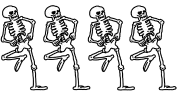
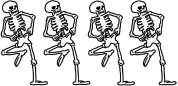
major ui and functionality updates

diff --git a/scripts/script.js b/scripts/script.js
@@ -1,50 +1,47 @@
 var midi = null;
-var isPlaying = false;
+var dancing;
 
 function flip() {
     this.isFlipped;
-    if (this.isFlipped === true) {
-        document.getElementsByTagName("img")[0].removeAttribute("style");
-        this.isFlipped = false;
-    }
-    else {
-        document.getElementsByTagName("img")[0].setAttribute("style", "transform: scaleX(-1);");
+    if (this.isFlipped === false) {
+        document.getElementsByTagName("img")[0].style.transform = "scaleX(-1)";
         this.isFlipped = true;
-    }
-}
-function trydance() {
-    if (isPlaying === false) {
         return;
     }
-    flip();
-    setTimeout(trydance, 700);
+    document.getElementsByTagName("img")[0].style.removeProperty("transform");
+    this.isFlipped = false;
+}
+function display_time(ev) {
+    document.getElementsByTagName("progress")[0].value = ev.time.toFixed(0);
 }
 document.getElementById("load").onclick = function() {
+    document.getElementById("filein").value = null;
     document.getElementById("filein").click();
 };
 document.getElementById("filein").onchange = function() {
     var reader = new FileReader();
     if (document.getElementById("filein").files[0]) {
+        clearInterval(dancing);
+        dancing = null;
         reader.readAsDataURL(document.getElementById("filein").files[0]);
         reader.onload = function(e) {
             midi = reader.result;
-            document.getElementsByTagName("small")[0].innerHTML = document.getElementById("filein").files[0].name.substring(0,35);
+            document.getElementById("control").click();
+            document.getElementById("title").innerHTML = document.getElementById("filein").files[0].name.split('.mid')[0].substring(0,35);
         };
+        document.getElementById("control").disabled = false;
     }
-    document.getElementById("play").removeAttribute("disabled");
 };
-document.getElementById("play").onclick = function() {
-    if (midi) {
+document.getElementById("control").onclick = function() {
+    if (!dancing) {
         MIDIjs.play(midi);
-        isPlaying = true;
-        setTimeout(trydance, 700);
-        document.getElementById("play").setAttribute("disabled", true);
-        document.getElementById("stop").removeAttribute("disabled");
+        MIDIjs.player_callback = display_time;
+        dancing = setInterval(flip, 700);
+        document.getElementById("control").innerHTML = "&#10073;&#10073;";
+        return;
     }
-};
-document.getElementById("stop").onclick = function() {
     MIDIjs.stop();
-    isPlaying = false;
-    document.getElementById("stop").setAttribute("disabled", true);
-    document.getElementById("play").removeAttribute("disabled");
+    clearInterval(dancing);
+    dancing = null;
+    document.getElementById("control").innerHTML = "&#9654;";
 };

diff --git a/index.html b/index.html
@@ -1,23 +1,19 @@
 <html>
     <head>
         <script type='text/javascript' src='scripts/script.js' defer></script>
-        <script type='text/javascript' src='scripts/midi.js' async></script>
+        <script type='text/javascript' src='scripts/midi.js' defer></script>
     </head>
-    <body>
-        <h1>BareBones MIDI</h1>
-        <hr>
-        <br>
-        <nav>
+    <body style="margin-top: 0%; margin-bottom: 0%;">
+        <h2 style="font-size: 1.75em; margin-bottom: 6%;">BareBones MIDI</h2>
+        <div>
             <button id="load">Choose Tune</button>
-        </nav>
-        <small></small>
-        <br>
-        <nav>
-            <button id="play" disabled="true">Play</button>
-            <button id="stop" disabled="true">Stop</button>
-        </nav>
-        <br>
-        <img src="icons/bbm.png">
-        <input type="file" accept=".mid,.midi" id="filein" style="display: none;">
+            <input id="filein" type="file" accept=".mid, .midi" style="display: none;">
+        </div>
+        <div id="title" style="padding-top: 2%; font-size: 0.8em;"></div>
+        <div style="position: absolute; bottom: 0%;">
+            <button id="control" disabled="true">&#9654;</button>
+            <progress value="0" max="100"></progress>
+            <img src="icons/bbm.png" title="sc" style="display: block; margin-right: auto; margin-left: auto; height: 38.6%; padding-top: 4%;">
+        </div>
     </body>
 </html>

diff --git a/background.js b/background.js
@@ -1,8 +1,8 @@
 chrome.app.runtime.onLaunched.addListener(function() {
     chrome.app.window.create('index.html', {
         'outerBounds': {
-            'width': 200,
-            'height': 270
+            'width': 180,
+            'height': 210
         },
         "resizable": false,
     });
